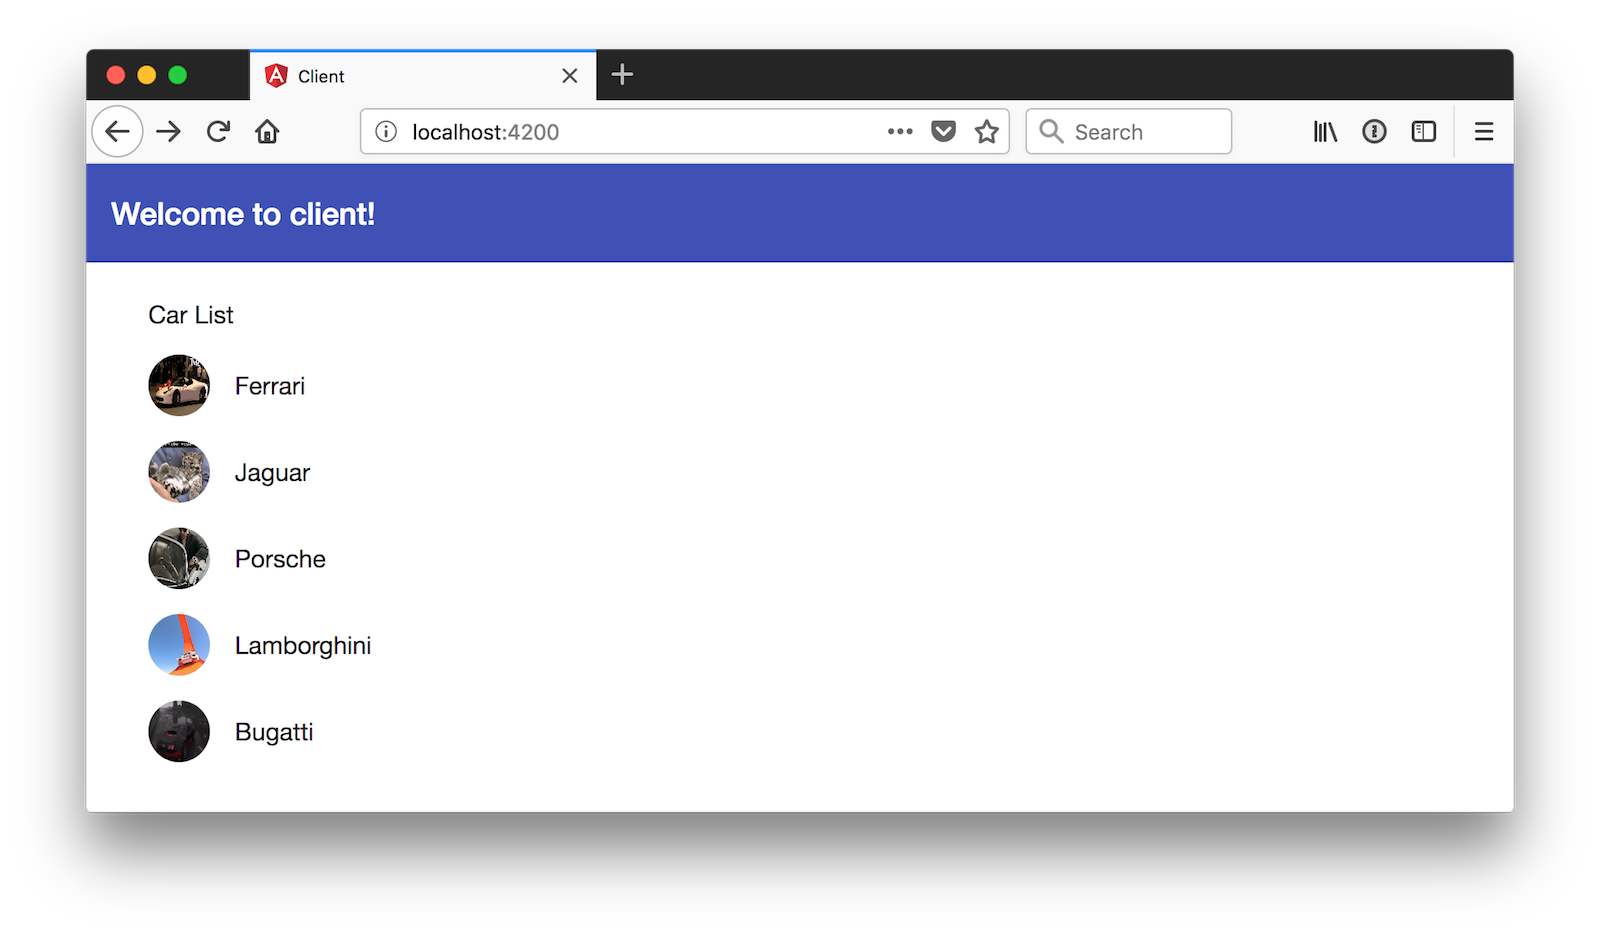
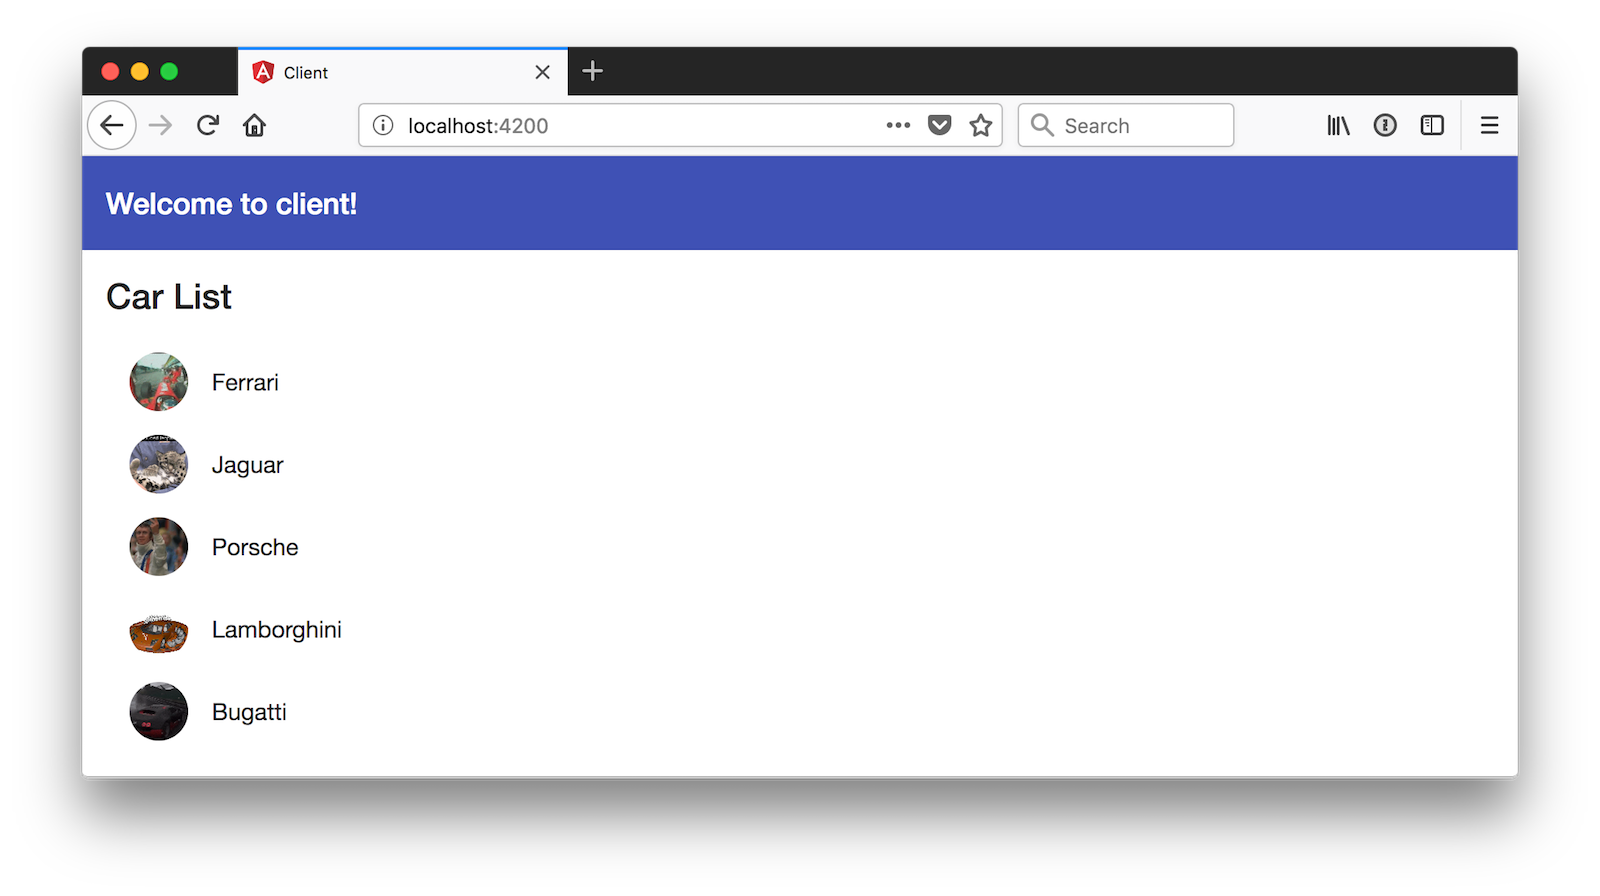
Update Angular 7 + Spring Boot 2.1 to GA Releases (#2456)

diff --git a/_source/_posts/2018-08-22-basic-crud-angular-7-and-spring-boot-2.md b/_source/_posts/2018-08-22-basic-crud-angular-7-and-spring-boot-2.md
@@ -24,7 +24,7 @@ You will need [Java 8](http://www.oracle.com/technetwork/java/javase/downloads/j
 
 ## Build an API with Spring Boot 2.1
 
-To get started with [Spring Boot](https://projects.spring.io/spring-boot/) 2.1, head on over to [start.spring.io](https://start.spring.io) and create a new project that uses Java, Spring Boot version 2.1.0 M2, and options to create a simple API: JPA, H2, Rest Repositories, Lombok, and Web. In this example, I've added Actuator as well, since it's a [very cool feature](https://dzone.com/articles/spring-boot-actuator-a-complete-guide) of Spring Boot.
+To get started with [Spring Boot](https://projects.spring.io/spring-boot/) 2.1, head on over to [start.spring.io](https://start.spring.io) and create a new project that uses Java, Spring Boot version 2.1.0, and options to create a simple API: JPA, H2, Rest Repositories, Lombok, and Web. In this example, I've added Actuator as well, since it's a [very cool feature](https://dzone.com/articles/spring-boot-actuator-a-complete-guide) of Spring Boot.
 
 {% img blog/spring-boot-2-angular-7/start.spring.io.png alt:"Spring Initializr" width:"800" %}{: .center-image }
 
@@ -160,7 +160,7 @@ If you restart your server app and hit `http://localhost:8080/cool-cars` with yo
 $ http localhost:8080/cool-cars
 HTTP/1.1 200
 Content-Type: application/json;charset=UTF-8
-Date: Fri, 17 Aug 2018 15:10:33 GMT
+Date: Fri, 02 Nov 2018 10:36:51 GMT
 Transfer-Encoding: chunked
 ```
 ```json
@@ -196,10 +196,10 @@ You can learn the basics of Angular CLI at [cli.angular.io](https://cli.angular.
 
 {% img blog/spring-boot-2-angular-7/cli.angular.io.png alt:"Angular CLI Homepage" width:"800" %}{: .center-image }
 
-Install the latest version of Angular CLI, which is version 6.2.0-beta.3 at the time of this writing.
+Install the latest version of Angular CLI, which is version 7.0.4 at the time of this writing.
 
 ```bash
-npm install -g @angular/cli@v6.2.0-beta.3
+npm install -g @angular/cli@7.0.4
 ```
 
 Create a new project in the umbrella directory you created. Again, mine is named `okta-spring-boot-2-angular-7-example`.
@@ -208,24 +208,15 @@ Create a new project in the umbrella directory you created. Again, mine is named
 ng new client
 ```
 
+When prompted to install Angular routing, type "Y". For the stylesheet format, choose "CSS" (the default).
+
 After the client is created, navigate into its directory, remove its Git configuration, and install Angular Material.
 
 ```bash
 cd client
-npm install @angular/material@6.4.6 @angular/cdk@6.4.6
+rm -rf .git
+npm install @angular/material@7.0.2 @angular/cdk@7.0.2
 ```
-
-Run `npm audit fix --force` to fix outdated dependencies.
-
-```bash
-$ npm audit fix --force
-npm WARN using --force I sure hope you know what you are doing.
-...
-```
-
-Edit `package.json` and change all instances of `^6.1.0` to `^7.0.0-beta.2` to upgrade to Angular 7.
-
-**NOTE:** If this post isn't updated when Angular 7.0 is out, please leave a comment and remind me to update it.
 
 You'll use Angular Material's components to make the UI look better, especially on mobile phones. If you'd like to learn more about Angular Material, see [material.angular.io](https://material.angular.io). It has extensive documentation on its various components and how to use them. The paint bucket in the top right corner will allow you to preview available theme colors.
 
@@ -236,14 +227,7 @@ You'll use Angular Material's components to make the UI look better, especially 
 Use Angular CLI to generate a car service that can talk to the Cool Cars API.
 
 ```bash
-ng g s car
-```
-
-Move the generated files into the `client/src/app/shared/car` directory.
-
-```bash
-mkdir -p src/app/shared/car
-mv src/app/car.service.* src/app/shared/car/.
+ng g s shared/car/car
 ```
 
 Update the code in `car.service.ts` to fetch the list of cars from the server.
@@ -265,7 +249,7 @@ export class CarService {
 }
 ```
 
-One of the changes I like in Angular 6+ is your services can now register themselves. In previous versions, when you annotated a class with `@Injectable()`, you had to register it as a provider in a module or component to use it. In Angular 6, you can specify `providedIn` and it will auto-register itself when the app bootstraps.
+One of the changes I like in Angular 6+ is your services can now register themselves. In previous versions, when you annotated a class with `@Injectable()`, you had to register it as a provider in a module or component to use it. In Angular 6+, you can specify `providedIn` and it will auto-register itself when the app bootstraps.
 
 Open `src/app/app.module.ts`, and add `HttpClientModule` as an import.
 
@@ -278,6 +262,7 @@ import { HttpClientModule } from '@angular/common/http';
   ],
   imports: [
     BrowserModule,
+    AppRoutingModule,
     HttpClientModule
   ],
   providers: [],
@@ -332,10 +317,13 @@ Update `client/src/app/app.component.html` to have the `app-car-list` element.
 {% raw %}
 ```html
 <div style="text-align:center">
-  <h1>Welcome to {{title}}!</h1>
+  <h1>
+    Welcome to {{ title }}!
+  </h1>
 </div>
 
 <app-car-list></app-car-list>
+<router-outlet></router-outlet>
 ```
 {% endraw %}
 
@@ -385,6 +373,7 @@ import { BrowserAnimationsModule } from '@angular/platform-browser/animations';
   ...
   imports: [
     BrowserModule,
+    AppRoutingModule,
     HttpClientModule,
     BrowserAnimationsModule,
     MatButtonModule,
@@ -406,6 +395,7 @@ Update `client/src/app/app.component.html` to use the toolbar component.
 </mat-toolbar>
 
 <app-car-list></app-car-list>
+<router-outlet></router-outlet>
 ```
 {% endraw %}
 
@@ -414,7 +404,7 @@ Update `client/src/app/car-list/car-list.component.html` to use the card layout 
 {% raw %}
 ```html
 <mat-card>
-  <mat-card-header>Car List</mat-card-header>
+  <mat-card-title>Car List</mat-card-title>
   <mat-card-content>
     <mat-list>
       <mat-list-item *ngFor="let car of cars">
@@ -554,7 +544,7 @@ to add a new car.
 {% raw %}
 ```html
 <mat-card>
-  <mat-card-header>Car List</mat-card-header>
+  <mat-card-title>Car List</mat-card-title>
   <mat-card-content>
     <mat-list>
       <mat-list-item *ngFor="let car of cars">
@@ -571,13 +561,30 @@ to add a new car.
 ```
 {% endraw %}
 
-In `client/src/app/app.module.ts`, add routes, import the `FormsModule`, and import `RouterModule`.
+In `client/src/app/app.module.ts`, import the `FormsModule`.
 
 ```typescript
 import { FormsModule } from '@angular/forms';
-import { RouterModule, Routes } from '@angular/router';
 
-const appRoutes: Routes = [
+@NgModule({
+  ...
+  imports: [
+    ...
+    FormsModule
+  ],
+  ...
+})
+```
+
+In `client/src/app/app-routing.module.ts`, add routes for the `CarListComponent` and `CarEditComponent`.
+
+```typescript
+import { NgModule } from '@angular/core';
+import { Routes, RouterModule } from '@angular/router';
+import { CarListComponent } from './car-list/car-list.component';
+import { CarEditComponent } from './car-edit/car-edit.component';
+
+const routes: Routes = [
   { path: '', redirectTo: '/car-list', pathMatch: 'full' },
   {
     path: 'car-list',
@@ -594,14 +601,10 @@ const appRoutes: Routes = [
 ];
 
 @NgModule({
-  ...
-  imports: [
-    ...
-    FormsModule,
-    RouterModule.forRoot(appRoutes)
-  ],
-  ...
+  imports: [RouterModule.forRoot(routes)],
+  exports: [RouterModule]
 })
+export class AppRoutingModule { }
 ```
 
 Modify `client/src/app/car-edit/car-edit.component.ts` to fetch a car's information from the id passed on the URL, and to add methods for saving and deleting.
@@ -711,7 +714,7 @@ Put a little padding around the image by adding the following CSS to `client/src
 }
 ```
 
-Modify `client/src/app/app.component.html` and replace `<app-car-list></app-car-list>` with `<router-outlet></router-outlet>`. This change is necessary or routing between components won't work.
+Modify `client/src/app/app.component.html` and remove `<app-car-list></app-car-list>`.
 
 {% raw %}
 ```html
@@ -743,12 +746,12 @@ On the server side, you can lock things down with Okta's Spring Boot Starter, wh
 <dependency>
     <groupId>com.okta.spring</groupId>
     <artifactId>okta-spring-boot-starter</artifactId>
-    <version>0.6.0</version>
+    <version>0.6.1</version>
 </dependency>
 <dependency>
     <groupId>org.springframework.security.oauth.boot</groupId>
     <artifactId>spring-security-oauth2-autoconfigure</artifactId>
-    <version>2.0.3.RELEASE</version>
+    <version>2.1.0.RELEASE</version>
 </dependency>
 ```
 
@@ -791,7 +794,7 @@ The Okta Angular SDK is a wrapper around [Okta Auth JS](https://github.com/okta/
 To install it, run the following command in the `client` directory:
 
 ```bash
-npm install @okta/okta-angular@1.0.3
+npm install @okta/okta-angular@1.0.7
 ```
 
 In `client/src/app/app.module.ts`, add a `config` variable with the settings for your OIDC app.
@@ -804,23 +807,11 @@ const config = {
 };
 ```
 
-In this same file, you'll also need to add a new route for the `redirectUri` that points to the `OktaCallbackComponent`.
-
-```typescript
-import { OktaCallbackComponent, OktaAuthModule } from '@okta/okta-angular';
-
-const appRoutes: Routes = [
-  ...
-  {
-    path: 'implicit/callback',
-    component: OktaCallbackComponent
-  }
-];
-```
-
 Next, initialize and import the `OktaAuthModule`.
 
 ```typescript
+import { OktaAuthModule } from '@okta/okta-angular';
+
 @NgModule({
   ...
   imports: [
@@ -829,6 +820,20 @@ Next, initialize and import the `OktaAuthModule`.
   ],
   ...
 })
+```
+
+In `client/src/app/app-routing.module.ts`, you'll also need to add a new route for the `redirectUri` that points to the `OktaCallbackComponent`.
+
+```typescript
+import { OktaCallbackComponent } from '@okta/okta-angular';
+
+const routes: Routes = [
+  ...
+  {
+    path: 'implicit/callback',
+    component: OktaCallbackComponent
+  }
+];
 ```
 
 These are the three steps you need to set up an Angular app to use Okta. To make it easy to add a bearer token to HTTP
@@ -871,7 +876,7 @@ export class AuthInterceptor implements HttpInterceptor {
 To register this interceptor, add it as a provider in `client/src/app/app.module.ts`.
 
 ```typescript
-import { HTTP_INTERCEPTORS } from '@angular/common/http';
+import { HTTP_INTERCEPTORS, HttpClientModule } from '@angular/common/http';
 import { AuthInterceptor } from './shared/okta/auth.interceptor';
 
 @NgModule({
@@ -951,10 +956,12 @@ Notice that this shows elements from the `car-list` component. To fix this, you 
 ng g c home
 ```
 
-Modify `client/src/app/app.module.ts` to update the routes.
+Modify `client/src/app/app-routing.module.ts` to update the routes.
 
 ```typescript
-const appRoutes: Routes = [
+import { HomeComponent } from './home/home.component';
+
+const routes: Routes = [
   {path: '', redirectTo: '/home', pathMatch: 'full'},
   {
     path: 'home',
@@ -1006,7 +1013,6 @@ export class HomeComponent implements OnInit {
     );
   }
 }
-
 ```
 
 Update `client/src/app/app.component.html`, so the Logout button redirects back to home when it's clicked.
@@ -1024,6 +1030,14 @@ Update `client/src/app/app.component.html`, so the Logout button redirects back 
 <router-outlet></router-outlet>
 ```
 {% endraw %}
+
+To make it so there's not a bottom border at the bottom of your content, make the `<mat-card>` element fill the screen by adding the following to `client/src/styles.css`.
+
+```css
+mat-card {
+  height: 100vh;
+}
+```
 
 Now you should be able to open your browser to http://localhost:4200 and click on the Login button. If you've configured everything correctly, you'll be redirected to Okta to log in.
 
@@ -1045,18 +1059,22 @@ import java.util.Collections;
 
 ...
 
-@Bean
-public FilterRegistrationBean<CorsFilter> simpleCorsFilter() {
-    UrlBasedCorsConfigurationSource source = new UrlBasedCorsConfigurationSource();
-    CorsConfiguration config = new CorsConfiguration();
-    config.setAllowCredentials(true);
-    config.setAllowedOrigins(Collections.singletonList("http://localhost:4200"));
-    config.setAllowedMethods(Collections.singletonList("*"));
-    config.setAllowedHeaders(Collections.singletonList("*"));
-    source.registerCorsConfiguration("/**", config);
-    FilterRegistrationBean<CorsFilter> bean = new FilterRegistrationBean<>(new CorsFilter(source));
-    bean.setOrder(Ordered.HIGHEST_PRECEDENCE);
-    return bean;
+public class DemoApplication {
+    // main() and init() methods
+    
+    @Bean
+    public FilterRegistrationBean<CorsFilter> simpleCorsFilter() {
+        UrlBasedCorsConfigurationSource source = new UrlBasedCorsConfigurationSource();
+        CorsConfiguration config = new CorsConfiguration();
+        config.setAllowCredentials(true);
+        config.setAllowedOrigins(Collections.singletonList("http://localhost:4200"));
+        config.setAllowedMethods(Collections.singletonList("*"));
+        config.setAllowedHeaders(Collections.singletonList("*"));
+        source.registerCorsConfiguration("/**", config);
+        FilterRegistrationBean<CorsFilter> bean = new FilterRegistrationBean<>(new CorsFilter(source));
+        bean.setOrder(Ordered.HIGHEST_PRECEDENCE);
+        return bean;
+    }
 }
 ```
 
@@ -1068,7 +1086,7 @@ You can see the full source code for the application developed in this tutorial 
 
 ## Learn More about Spring Boot and Angular
 
-It can be tough to keep up with fast-moving frameworks like Spring Boot and Angular. This article is meant to give you a jump start on the latest releases. Angular 7 is rumored to ship with a newer, faster renderer (codenamed: [Ivy Renderer](http://ivy.angular.io/)). For specific changes, see [Angular's changelog](https://github.com/angular/angular/blob/master/CHANGELOG.md). For Spring Boot, see its [2.1 Release Notes](https://github.com/spring-projects/spring-boot/wiki/Spring-Boot-2.1-Release-Notes).
+It can be tough to keep up with fast-moving frameworks like Spring Boot and Angular. This article is meant to give you a jump start on the latest releases. For specific changes in Angular 7, see [its changelog](https://github.com/angular/angular/blob/master/CHANGELOG.md). For Spring Boot, see its [2.1 Release Notes](https://github.com/spring-projects/spring-boot/wiki/Spring-Boot-2.1-Release-Notes).
 
 This article uses [Okta's Angular SDK](https://www.npmjs.com/package/@okta/okta-angular). To learn more about this project, or help improve it, [see its GitHub project](https://github.com/okta/okta-oidc-js/tree/master/packages/okta-angular). I'd love to make it even easier to use!
 
@@ -1080,4 +1098,8 @@ This blog has a plethora of Spring Boot and Angular tutorials. Here are some of 
 * [Angular Authentication with OpenID Connect and Okta in 20 Minutes](/blog/2017/04/17/angular-authentication-with-oidc)
 * [Build an Angular App with Okta's Sign-In Widget in 15 Minutes](/blog/2017/03/27/angular-okta-sign-in-widget)
 
-If you have any questions, please don't hesitate to leave a comment below, or ask us on our [Okta Developer Forums](https://devforum.okta.com/). Don't forget to follow us [on Twitter](https://twitter.com/oktadev) too!
+If you have any questions, please don't hesitate to leave a comment below, or ask us on our [Okta Developer Forums](https://devforum.okta.com/). Don't forget to follow us [on Twitter](https://twitter.com/oktadev) and [YouTube](https://www.youtube.com/channel/UC5AMiWqFVFxF1q9Ya1FuZ_Q) too!
+
+**Changelog:**
+
+* Nov 2, 2018: Updated to use Angular 7.0 and Spring Boot 2.1 GA releases. You can see the example app changes in [okta-spring-boot-2-angular-7-example#5](https://github.com/oktadeveloper/okta-spring-boot-2-angular-7-example/pull/5); changes to this post can be viewed in [okta.github.io#2456](https://github.com/okta/okta.github.io/pull/2456).
